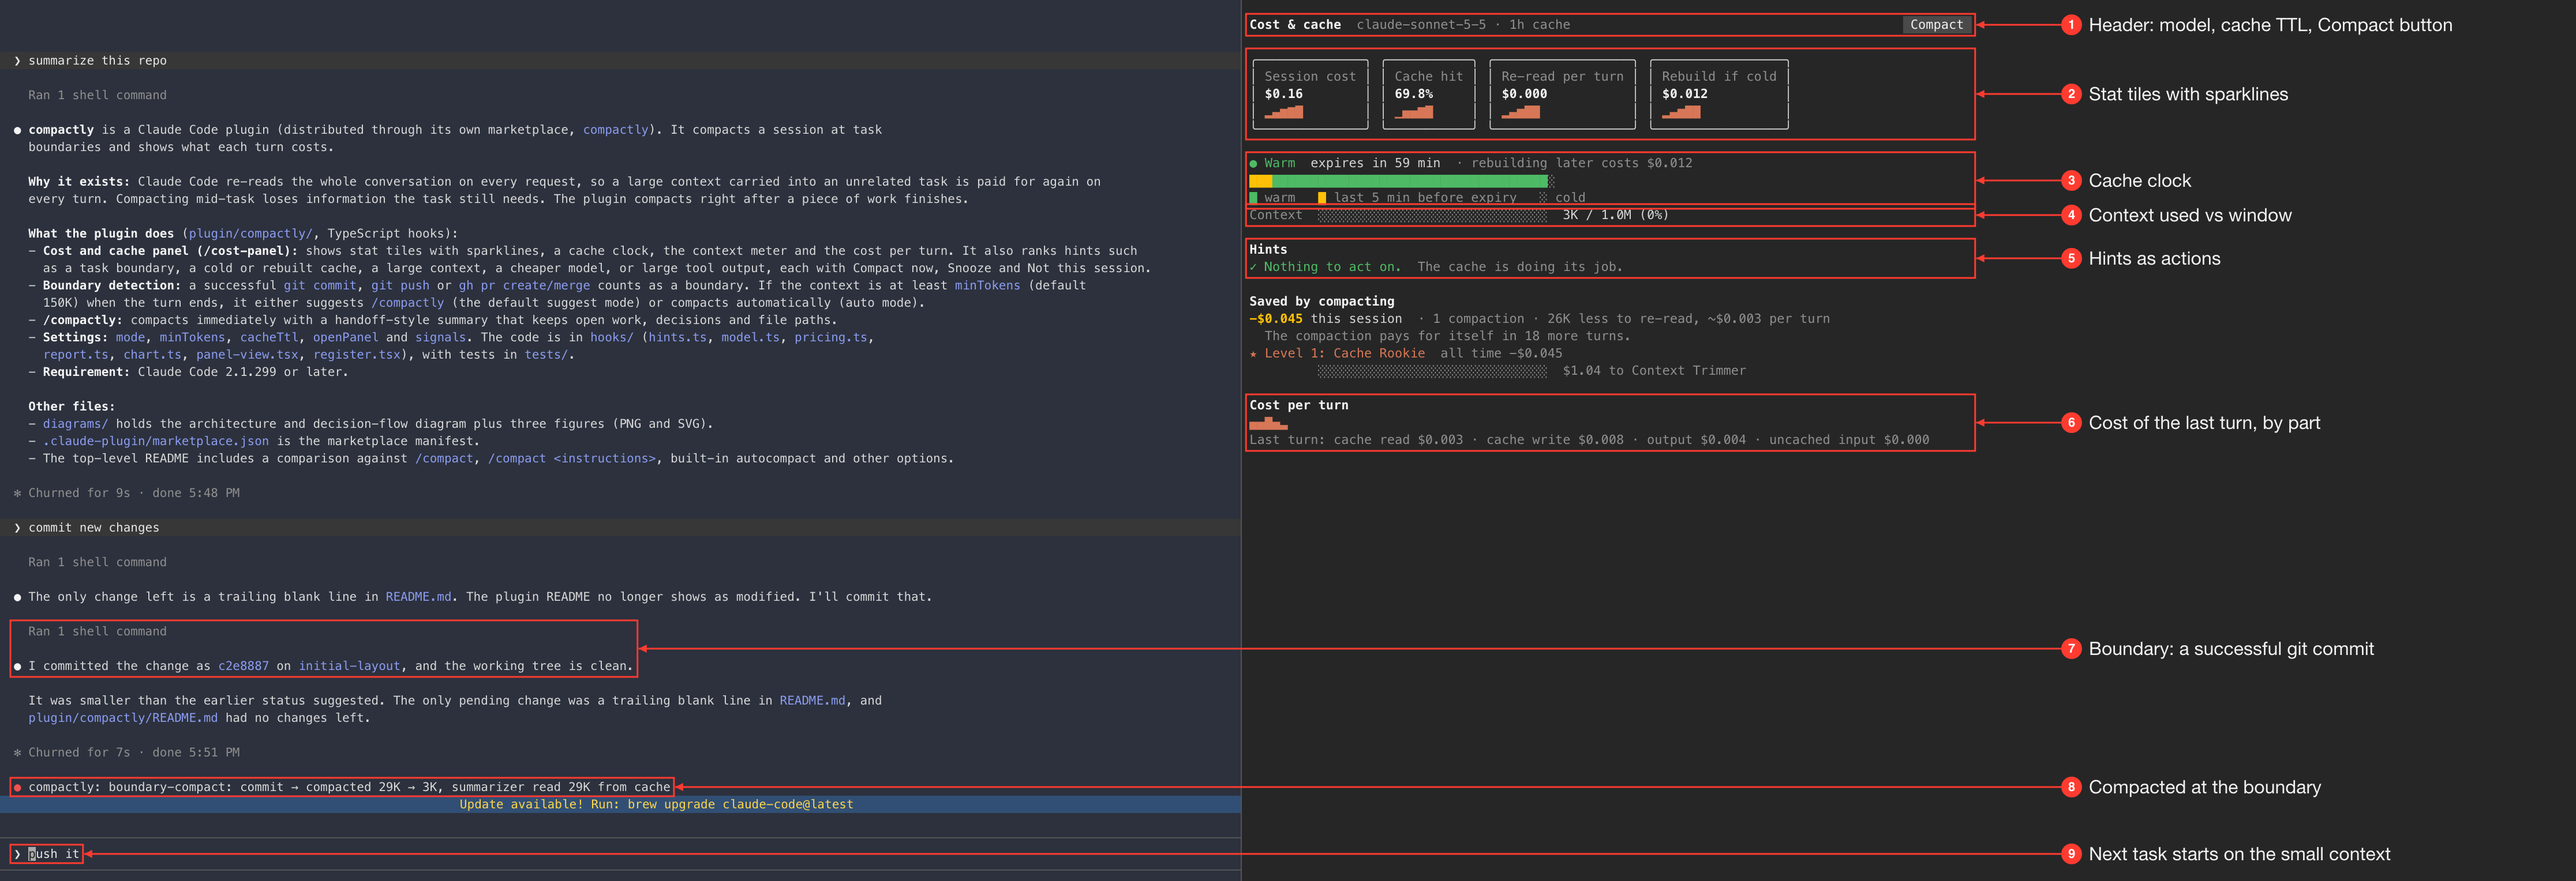
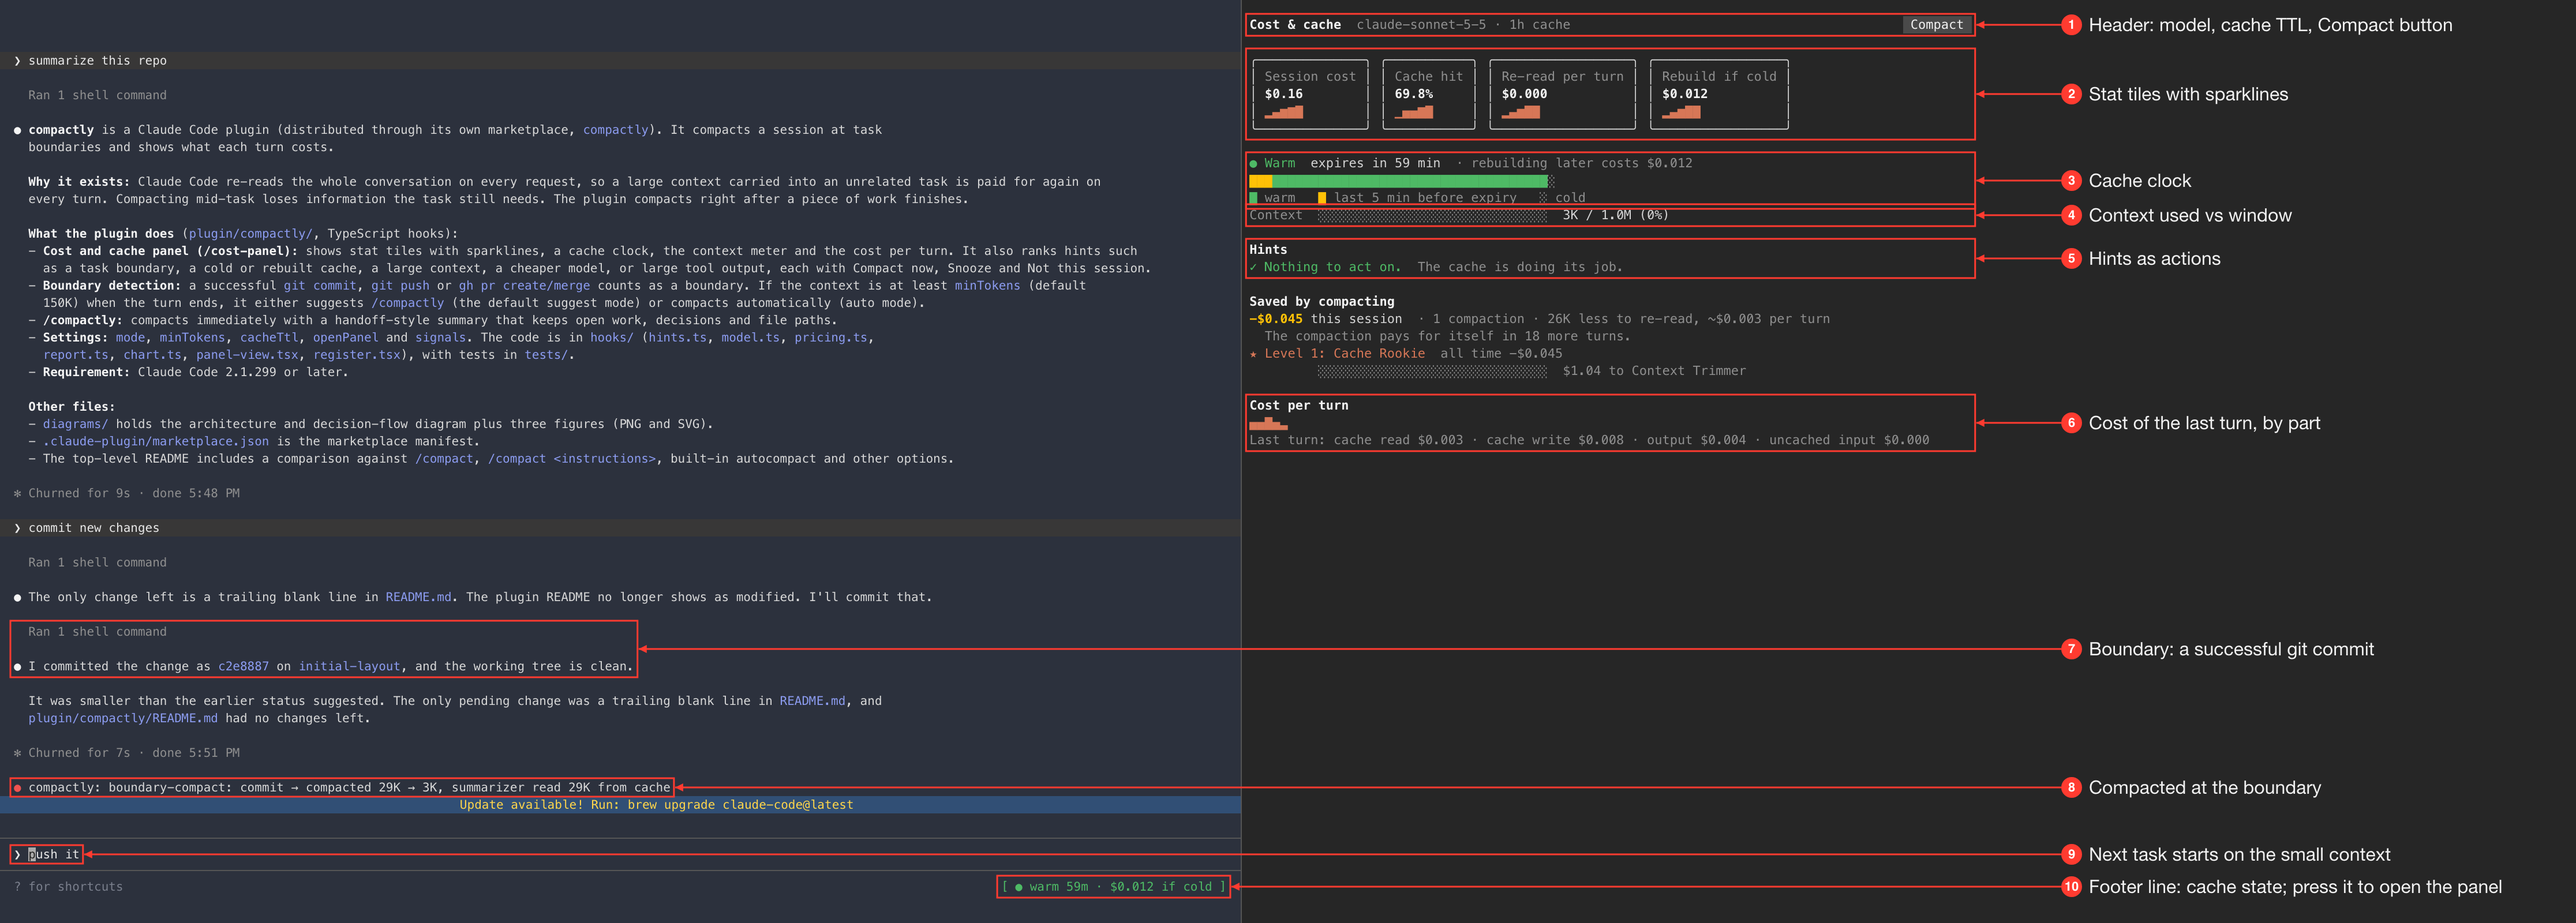
Show the footer line in the README, annotated image and demo GIFs

Changed region(s): [[0.0, 0.0615, 0.9653, 0.9843], [0.4671, 0.0, 0.903, 0.5229], [0.7784, 0.0923, 0.903, 0.123]]

diff --git a/README.md b/README.md
@@ -25,8 +25,8 @@ mode with `judge=off`. Items 7 and 8 say what the default Sonnet judge does inst
 
 ![compactly in the Claude Code CLI](images/1-annotated.png)
 
-Open the panel with `/cost-panel`. In the terminal it draws bars as text. In the desktop app
-it draws SVG.
+Open the panel with `/cost-panel`, or press the footer line (item 10). In the terminal it
+draws bars as text. In the desktop app it draws SVG.
 
 1. **Header**: the model, the cache TTL (the `cacheTtl` setting), and a **Compact** button.
 2. **Stat tiles**, each with a sparkline over recent turns:
@@ -56,6 +56,15 @@ The task boundary, as `judge=off` handles it:
    costs much less than reading it fresh. With the judge, this happens when you send the next
    prompt and the judge sees a natural break.
 9. **Next task**: the next prompt ("push it") runs on the 3K summary, not the full 29K.
+
+The footer line, whether the panel is open or not:
+
+10. **Footer line**: a one-line summary at the right of the prompt footer, such as
+    `● warm 59m · $0.012 if cold`. It shows the cache state (warm with minutes left, cold, or
+    unknown) and drops in more only when they matter: the cost of a rebuild, `▲ N tips` when
+    hints are waiting, and `ctx 85%` once the context passes 80%. It turns orange when the
+    cache is in its compact window or cold, and red when the context is nearly full. Press it
+    to open the panel.
 
 Clicking the panel's buttons in the CLI needs `/tui fullscreen`. The hotkeys work without it.
 

diff --git a/plugin/compactly/README.md b/plugin/compactly/README.md
@@ -16,6 +16,9 @@ with a summary written as a handoff for the next task.
     (hotkeys 1, 2, 3 act on the top hint only);
   - Saved by compacting, and Cost per turn.
 
+  A one-line **footer line** beside the prompt keeps the cache state in view when the panel is
+  closed (`● warm 42m · $0.36 if cold · ▲ 1 tip`). Press it to open the panel.
+
   The terminal draws text bars; the desktop app draws SVG. Clicking the buttons in the CLI
   needs `/tui fullscreen`; the hotkeys work without it. Where no window can be drawn, the
   command replies with the same report as text.
